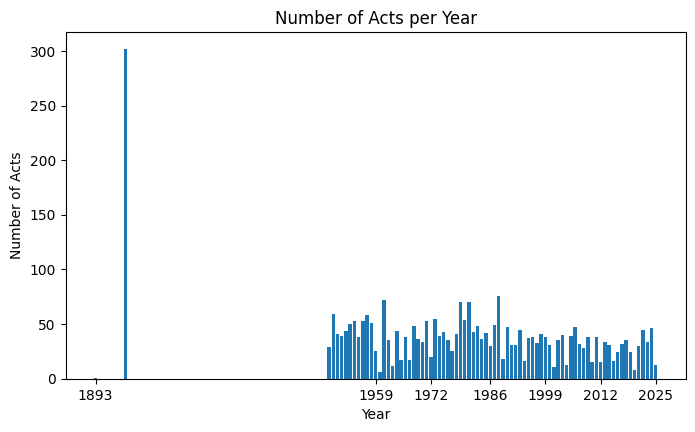
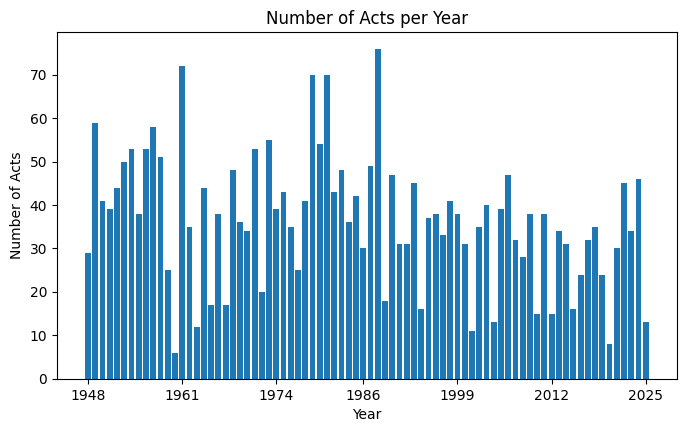
Ran build_readme

diff --git a/README.md b/README.md
@@ -1,10 +1,10 @@
 # 🇱🇰 Acts from the Sri Lankan Parliament ([lk_acts](https://github.com/nuuuwan/lk_acts))
 
-Scraped  **3,160** acts (1.11 MB) from [www.parliament.lk](https://www.parliament.lk/en) as of **2025-08-17 09:38:43**.
+Scraped  **2,857** acts (1.04 MB) from [www.parliament.lk](https://www.parliament.lk/en) as of **2025-08-17 09:41:54**.
 
 ![Year Chart](images/chart_year.png)
 
-## Acts (3,160)
+## Acts (2,857)
 
 ### 2025 (13)
 
@@ -3096,313 +3096,4 @@ Scraped  **3,160** acts (1.11 MB) from [www.parliament.lk](https://www.parliamen
 - ✏ `03/1948` [The Estate Duty (Amendment)](data/acts/1940s/1948/1948-003) (1948-01-28)
 - ✏ `02/1948` [Income Tax (Amendment)](data/acts/1940s/1948/1948-002) (1948-01-28)
 - 💰 `01/1948` [The Appropriation](data/acts/1940s/1948/1948-001) (1948-01-28)
-
-### 1900 (302)
-
-- 🏛 `Chap 25` [Youthful Offenders (Training Schools)](data/acts/1900s/1900/1900-youthful-offenders-(training-schools)) (1900-01-30)
-- 🏛 `Chap 139` [Workmen's Compensation](data/acts/1900s/1900/1900-workmen's-compensation) (1900-01-30)
-- 🏛 `Chap 60` [Wills](data/acts/1900s/1900/1900-wills) (1900-01-30)
-- 🏛 `Chap 431` [Widows' and Orphans' Pension Fund](data/acts/1900s/1900/1900-widows'-and-orphans'-pension-fund) (1900-01-30)
-- 🏛 `Chap 215` [Whaling](data/acts/1900s/1900/1900-whaling) (1900-01-30)
-- 🏛 `Chap 232` [Wells and Pits](data/acts/1900s/1900/1900-wells-and-pits) (1900-01-30)
-- 🏛 `Chap 158` [Weights and Measures](data/acts/1900s/1900/1900-weights-and-measures) (1900-01-30)
-- 🏛 `Chap 448` [Water Hyacinth](data/acts/1900s/1900/1900-water-hyacinth) (1900-01-30)
-- 🏛 `Chap 136` [Wages Boards](data/acts/1900s/1900/1900-wages-boards) (1900-01-30)
-- 🏛 `Chap 360` [Visiting Forces](data/acts/1900s/1900/1900-visiting-forces) (1900-01-30)
-- 🏛 `Chap 302` [Vidyalankara Sabha](data/acts/1900s/1900/1900-vidyalankara-sabha) (1900-01-30)
-- 🏛 `Chap 315` [Victoria Home for Incurables](data/acts/1900s/1900/1900-victoria-home-for-incurables) (1900-01-30)
-- 🏛 `Chap 224` [Venereal Diseases](data/acts/1900s/1900/1900-venereal-diseases) (1900-01-30)
-- 🏛 `Chap 202` [Vehicles](data/acts/1900s/1900/1900-vehicles) (1900-01-30)
-- 🏛 `Chap 121` [Validation of Registrars' Proceedings](data/acts/1900s/1900/1900-validation-of-registrars'-proceedings) (1900-01-30)
-- 🏛 `Chap 32` [Vagrants](data/acts/1900s/1900/1900-vagrants) (1900-01-30)
-- 🏛 `Chap 229` [Vaccination](data/acts/1900s/1900/1900-vaccination) (1900-01-30)
-- 🏛 `Chap 323` [Uva Young Men's Buddhist Association](data/acts/1900s/1900/1900-uva-young-men's-buddhist-association) (1900-01-30)
-- 🏛 `Chap 255` [Urban Councils](data/acts/1900s/1900/1900-urban-councils) (1900-01-30)
-- 🏛 `Chap 38` [Uniforms](data/acts/1900s/1900/1900-uniforms) (1900-01-30)
-- 🏛 `Chap 87` [Trusts](data/acts/1900s/1900/1900-trusts) (1900-01-30)
-- 🏛 `Chap 86` [Trust Receipts](data/acts/1900s/1900/1900-trust-receipts) (1900-01-30)
-- 🏛 `Chap 189` [Treasure Trove](data/acts/1900s/1900/1900-treasure-trove) (1900-01-30)
-- 🏛 `Chap 201` [Tramways](data/acts/1900s/1900/1900-tramways) (1900-01-30)
-- 🏛 `Chap 138` [Trade Unions](data/acts/1900s/1900/1900-trade-unions) (1900-01-30)
-- 🏛 `Chap 256` [Town Councils](data/acts/1900s/1900/1900-town-councils) (1900-01-30)
-- 🏛 `Chap 269` [Town and Country Planning](data/acts/1900s/1900/1900-town-and-country-planning) (1900-01-30)
-- 🏛 `Chap 197` [Tolls](data/acts/1900s/1900/1900-tolls) (1900-01-30)
-- 🏛 `Chap 245` [Tobacco Tax](data/acts/1900s/1900/1900-tobacco-tax) (1900-01-30)
-- 🏛 `Chap 193` [Thoroughfares](data/acts/1900s/1900/1900-thoroughfares) (1900-01-30)
-- 🏛 `Chap 63` [The "Tesawalamai"](data/acts/1900s/1900/1900-the-"tesawalamai") (1900-01-30)
-- 🏛 `Chap 155` [Telegram Copyright](data/acts/1900s/1900/1900-telegram-copyright) (1900-01-30)
-- 🏛 `Chap 192` [Telecommunications](data/acts/1900s/1900/1900-telecommunications) (1900-01-30)
-- 🏛 `Chap 35` [Tea Thefts](data/acts/1900s/1900/1900-tea-thefts) (1900-01-30)
-- 🏛 `Chap 435` [Tea Control](data/acts/1900s/1900/1900-tea-control) (1900-01-30)
-- 🏛 `Chap 108` [Surveyors](data/acts/1900s/1900/1900-surveyors) (1900-01-30)
-- 🏛 `Chap 13` [Supreme Court Vacations](data/acts/1900s/1900/1900-supreme-court-vacations) (1900-01-30)
-- 🏛 `Chap 233` [Suburban Dairies and Laundries](data/acts/1900s/1900/1900-suburban-dairies-and-laundries) (1900-01-30)
-- 🏛 `Chap 478` [Street Collections](data/acts/1900s/1900/1900-street-collections) (1900-01-30)
-- 🏛 `Chap 41` [Stay-in Strikes](data/acts/1900s/1900/1900-stay-in-strikes) (1900-01-30)
-- 🏛 `Chap 4` [Statutory Reprints](data/acts/1900s/1900/1900-statutory-reprints) (1900-01-30)
-- 🏛 `Chap 144` [Statistics](data/acts/1900s/1900/1900-statistics) (1900-01-30)
-- 🏛 `Chap 296` [St. Thomas' College](data/acts/1900s/1900/1900-st.-thomas'-college) (1900-01-30)
-- 🏛 `Chap 333` [St. Andrew's Church](data/acts/1900s/1900/1900-st.-andrew's-church) (1900-01-30)
-- 🏛 `Chap 325` [Sri Punyawardhana Samitiya of Matale](data/acts/1900s/1900/1900-sri-punyawardhana-samitiya-of-matale) (1900-01-30)
-- 🏛 `Chap 270` [Special Areas (Colombo) Development](data/acts/1900s/1900/1900-special-areas-(colombo)-development) (1900-01-30)
-- 🏛 `Chap 450` [Soil Conservation](data/acts/1900s/1900/1900-soil-conservation) (1900-01-30)
-- 🏛 `Chap 312` [Sinhala Welenda Mandalaya](data/acts/1900s/1900/1900-sinhala-welenda-mandalaya) (1900-01-30)
-- 🏛 `Chap 3` [Short Titles (Numeration)](data/acts/1900s/1900/1900-short-titles-(numeration)) (1900-01-30)
-- 🏛 `Chap 65` [Sex Disqualification Removal](data/acts/1900s/1900/1900-sex-disqualification-removal) (1900-01-30)
-- 🏛 `Chap 432` [School Teachers Pension](data/acts/1900s/1900/1900-school-teachers-pension) (1900-01-30)
-- 🏛 `Chap 340` [Salvation Army](data/acts/1900s/1900/1900-salvation-army) (1900-01-30)
-- 🏛 `Chap 211` [Salt](data/acts/1900s/1900/1900-salt) (1900-01-30)
-- 🏛 `Chap 84` [Sale of Goods](data/acts/1900s/1900/1900-sale-of-goods) (1900-01-30)
-- 🏛 `Chap 345` [Saiva Paripalana Sabhai](data/acts/1900s/1900/1900-saiva-paripalana-sabhai) (1900-01-30)
-- 🏛 `Chap 439` [Rubber Research](data/acts/1900s/1900/1900-rubber-research) (1900-01-30)
-- 🏛 `Chap 437` [Rubber Replanting (Subsidy)](data/acts/1900s/1900/1900-rubber-replanting-(subsidy)) (1900-01-30)
-- 🏛 `Chap 436` [Rubber Control](data/acts/1900s/1900/1900-rubber-control) (1900-01-30)
-- 🏛 `Chap 366` [Rome Convention](data/acts/1900s/1900/1900-rome-convention) (1900-01-30)
-- 🏛 `Chap 338` [Roman Catholic Archbishop](data/acts/1900s/1900/1900-roman-catholic-archbishop) (1900-01-30)
-- 🏛 `Chap 78` [Riot Damages](data/acts/1900s/1900/1900-riot-damages) (1900-01-30)
-- 🏛 `Chap 168` [Rice Reserves](data/acts/1900s/1900/1900-rice-reserves) (1900-01-30)
-- 🏛 `Chap 250` [Revenue Protection](data/acts/1900s/1900/1900-revenue-protection) (1900-01-30)
-- 🏛 `Chap 251` [Revenue Collection](data/acts/1900s/1900/1900-revenue-collection) (1900-01-30)
-- 🏛 `Chap 462` [Requisitioning of Land](data/acts/1900s/1900/1900-requisitioning-of-land) (1900-01-30)
-- 🏛 `Chap 119` [Registration of Old Deeds and Instruments](data/acts/1900s/1900/1900-registration-of-old-deeds-and-instruments) (1900-01-30)
-- 🏛 `Chap 477` [Registration of Dogs](data/acts/1900s/1900/1900-registration-of-dogs) (1900-01-30)
-- 🏛 `Chap 117` [Registration of Documents](data/acts/1900s/1900/1900-registration-of-documents) (1900-01-30)
-- 🏛 `Chap 111` [Registration of Deaths (Emergency)](data/acts/1900s/1900/1900-registration-of-deaths-(emergency)) (1900-01-30)
-- 🏛 `Chap 420` [Registered Stock and Securities](data/acts/1900s/1900/1900-registered-stock-and-securities) (1900-01-30)
-- 🏛 `Chap 266` [Rating and Valuation](data/acts/1900s/1900/1900-rating-and-valuation) (1900-01-30)
-- 🏛 `Chap 344` [Ramakrishna Mission](data/acts/1900s/1900/1900-ramakrishna-mission) (1900-01-30)
-- 🏛 `Chap 200` [Railways](data/acts/1900s/1900/1900-railways) (1900-01-30)
-- 🏛 `Chap 284` [Railway Uniform Staff Benevolent Fund](data/acts/1900s/1900/1900-railway-uniform-staff-benevolent-fund) (1900-01-30)
-- 🏛 `Chap 285` [Railway Benefit Association](data/acts/1900s/1900/1900-railway-benefit-association) (1900-01-30)
-- 🏛 `Chap 476` [Rabies](data/acts/1900s/1900/1900-rabies) (1900-01-30)
-- 🏛 `Chap 222` [Quarantine and Prevention of Diseases](data/acts/1900s/1900/1900-quarantine-and-prevention-of-diseases) (1900-01-30)
-- 🏛 `Chap 355` [Public and Judicial Officers (Retirement)](data/acts/1900s/1900/1900-public-and-judicial-officers-(retirement)) (1900-01-30)
-- 🏛 `Chap 24` [Probation of Offenders](data/acts/1900s/1900/1900-probation-of-offenders) (1900-01-30)
-- 🏛 `Chap 178` [Printing Presses](data/acts/1900s/1900/1900-printing-presses) (1900-01-30)
-- 🏛 `Chap 179` [Printers and Publishers](data/acts/1900s/1900/1900-printers-and-publishers) (1900-01-30)
-- 🏛 `Chap 70` [Prevention of Frauds](data/acts/1900s/1900/1900-prevention-of-frauds) (1900-01-30)
-- 🏛 `Chap 22` [Prevention of Crimes](data/acts/1900s/1900/1900-prevention-of-crimes) (1900-01-30)
-- 🏛 `Chap 68` [Prescription](data/acts/1900s/1900/1900-prescription) (1900-01-30)
-- 🏛 `Chap 332` [Presbyterian Church (Kandy)](data/acts/1900s/1900/1900-presbyterian-church-(kandy)) (1900-01-30)
-- 🏛 `Chap 122` [Powers of Attorney](data/acts/1900s/1900/1900-powers-of-attorney) (1900-01-30)
-- 🏛 `Chap 282` [Post Office Security Fund](data/acts/1900s/1900/1900-post-office-security-fund) (1900-01-30)
-- 🏛 `Chap 190` [Post Office](data/acts/1900s/1900/1900-post-office) (1900-01-30)
-- 🏛 `Chap 286` [Post and Telegraph Benefit Association](data/acts/1900s/1900/1900-post-and-telegraph-benefit-association) (1900-01-30)
-- 🏛 `Chap 141` [Poor Law](data/acts/1900s/1900/1900-poor-law) (1900-01-30)
-- 🏛 `Chap 53` [Police](data/acts/1900s/1900/1900-police) (1900-01-30)
-- 🏛 `Chap 218` [Poisons, Opium and Dangerous Drugs](data/acts/1900s/1900/1900-poisons,-opium-and-dangerous-drugs) (1900-01-30)
-- 🏛 `Chap 291` [Planters' Association](data/acts/1900s/1900/1900-planters'-association) (1900-01-30)
-- 🏛 `Chap 371` [Pilots](data/acts/1900s/1900/1900-pilots) (1900-01-30)
-- 🏛 `Chap 175` [Pilgrimages](data/acts/1900s/1900/1900-pilgrimages) (1900-01-30)
-- 🏛 `Chap 184` [Petroleum](data/acts/1900s/1900/1900-petroleum) (1900-01-30)
-- 🏛 `Chap 214` [Pearl  Fisheries](data/acts/1900s/1900/1900-pearl--fisheries) (1900-01-30)
-- 🏛 `Chap 142` [Orphanages](data/acts/1900s/1900/1900-orphanages) (1900-01-30)
-- 🏛 `Chap 37` [Old Metal](data/acts/1900s/1900/1900-old-metal) (1900-01-30)
-- 🏛 `Chap 39` [Official Secrets](data/acts/1900s/1900/1900-official-secrets) (1900-01-30)
-- 🏛 `Chap 30` [Obscene Publications](data/acts/1900s/1900/1900-obscene-publications) (1900-01-30)
-- 🏛 `Chap 17` [Oaths and Affirmations](data/acts/1900s/1900/1900-oaths-and-affirmations) (1900-01-30)
-- 🏛 `Chap 220` [Nursing Homes (Regulation)](data/acts/1900s/1900/1900-nursing-homes-(regulation)) (1900-01-30)
-- 🏛 `Chap 230` [Nuisances](data/acts/1900s/1900/1900-nuisances) (1900-01-30)
-- 🏛 `Chap 321` [Nugegoda Young Men's Buddhist Association](data/acts/1900s/1900/1900-nugegoda-young-men's-buddhist-association) (1900-01-30)
-- 🏛 `Chap 107` [Notaries](data/acts/1900s/1900/1900-notaries) (1900-01-30)
-- 🏛 `Chap 331` [Non-Episcopalian Churches](data/acts/1900s/1900/1900-non-episcopalian-churches) (1900-01-30)
-- 🏛 `Chap 180` [Newspapers](data/acts/1900s/1900/1900-newspapers) (1900-01-30)
-- 🏛 `Chap 358` [Navy](data/acts/1900s/1900/1900-navy) (1900-01-30)
-- 🏛 `Chap 43` [Naval and Victualling Stores](data/acts/1900s/1900/1900-naval-and-victualling-stores) (1900-01-30)
-- 🏛 `Chap 187` [National Museums](data/acts/1900s/1900/1900-national-museums) (1900-01-30)
-- 🏛 `Chap 401` [National Housing](data/acts/1900s/1900/1900-national-housing) (1900-01-30)
-- 🏛 `Chap 62` [Muslim Intestate Succession](data/acts/1900s/1900/1900-muslim-intestate-succession) (1900-01-30)
-- 🏛 `Chap 308` [Muslim Hospital Association](data/acts/1900s/1900/1900-muslim-hospital-association) (1900-01-30)
-- 🏛 `Chap 234` [Municipal Dairies and Laundries](data/acts/1900s/1900/1900-municipal-dairies-and-laundries) (1900-01-30)
-- 🏛 `Chap 252` [Municipal Councils](data/acts/1900s/1900/1900-municipal-councils) (1900-01-30)
-- 🏛 `Chap 203` [Motor Traffic](data/acts/1900s/1900/1900-motor-traffic) (1900-01-30)
-- 🏛 `Chap 204` [Motor Car (Conventions)](data/acts/1900s/1900/1900-motor-car-(conventions)) (1900-01-30)
-- 🏛 `Chap 89` [Mortgage](data/acts/1900s/1900/1900-mortgage) (1900-01-30)
-- 🏛 `Chap 314` [Moratuwa Social Service Society](data/acts/1900s/1900/1900-moratuwa-social-service-society) (1900-01-30)
-- 🏛 `Chap 309` [Moors' Islamic Cultural Home](data/acts/1900s/1900/1900-moors'-islamic-cultural-home) (1900-01-30)
-- 🏛 `Chap 80` [Money Lending](data/acts/1900s/1900/1900-money-lending) (1900-01-30)
-- 🏛 `Chap 422` [Monetary Law](data/acts/1900s/1900/1900-monetary-law) (1900-01-30)
-- 🏛 `Chap 281` [Milk Board](data/acts/1900s/1900/1900-milk-board) (1900-01-30)
-- 🏛 `Chap 336` [Methodist Trust Association](data/acts/1900s/1900/1900-methodist-trust-association) (1900-01-30)
-- 🏛 `Chap 227` [Mental Diseases](data/acts/1900s/1900/1900-mental-diseases) (1900-01-30)
-- 🏛 `Chap 226` [Medical Wants](data/acts/1900s/1900/1900-medical-wants) (1900-01-30)
-- 🏛 `Chap 105` [Medical Practioners, Pharmacists, Midwives and Nurses](data/acts/1900s/1900/1900-medical-practioners,-pharmacists,-midwives-and-nurses) (1900-01-30)
-- 🏛 `Chap 58` [Matrimonial Rights and Inheritance (Jaffna)](data/acts/1900s/1900/1900-matrimonial-rights-and-inheritance-(jaffna)) (1900-01-30)
-- 🏛 `Chap 57` [Matrimonial Rights and Inheritance](data/acts/1900s/1900/1900-matrimonial-rights-and-inheritance) (1900-01-30)
-- 🏛 `Chap 140` [Maternity Benefits](data/acts/1900s/1900/1900-maternity-benefits) (1900-01-30)
-- 🏛 `Chap 369` [Masters Attendant](data/acts/1900s/1900/1900-masters-attendant) (1900-01-30)
-- 🏛 `Chap 56` [Married Women's Property](data/acts/1900s/1900/1900-married-women's-property) (1900-01-30)
-- 🏛 `Chap 112` [Marriages (General)](data/acts/1900s/1900/1900-marriages-(general)) (1900-01-30)
-- 🏛 `Chap 115` [Marriage and Divorce (Muslim)](data/acts/1900s/1900/1900-marriage-and-divorce-(muslim)) (1900-01-30)
-- 🏛 `Chap 113` [Marriage and Divorce (Kandyan)](data/acts/1900s/1900/1900-marriage-and-divorce-(kandyan)) (1900-01-30)
-- 🏛 `Chap 347` [Maradana Mosque](data/acts/1900s/1900/1900-maradana-mosque) (1900-01-30)
-- 🏛 `Chap 91` [Maintenance](data/acts/1900s/1900/1900-maintenance) (1900-01-30)
-- 🏛 `Chap 303` [Mahamantinda Vidyarakshaka Sabha](data/acts/1900s/1900/1900-mahamantinda-vidyarakshaka-sabha) (1900-01-30)
-- 🏛 `Chap 45` [Lotteries](data/acts/1900s/1900/1900-lotteries) (1900-01-30)
-- 🏛 `Chap 76` [Lost Property](data/acts/1900s/1900/1900-lost-property) (1900-01-30)
-- 🏛 `Chap 417` [Local Treasury Bills](data/acts/1900s/1900/1900-local-treasury-bills) (1900-01-30)
-- 🏛 `Chap 265` [Local Government (Administrative Regions)](data/acts/1900s/1900/1900-local-government-(administrative-regions)) (1900-01-30)
-- 🏛 `Chap 262` [Local Authorities Elections](data/acts/1900s/1900/1900-local-authorities-elections) (1900-01-30)
-- 🏛 `Chap 261` [Local Authorities (Standard By-laws )](data/acts/1900s/1900/1900-local-authorities-(standard-by-laws-)) (1900-01-30)
-- 🏛 `Chap 263` [Local Authorities (Pensioners' Allowances)](data/acts/1900s/1900/1900-local-authorities-(pensioners'-allowances)) (1900-01-30)
-- 🏛 `Chap 400` [Loan Board](data/acts/1900s/1900/1900-loan-board) (1900-01-30)
-- 🏛 `Chap 42` [Lighting Control](data/acts/1900s/1900/1900-lighting-control) (1900-01-30)
-- 🏛 `Chap 228` [Lepers](data/acts/1900s/1900/1900-lepers) (1900-01-30)
-- 🏛 `Chap 199` [Launches](data/acts/1900s/1900/1900-launches) (1900-01-30)
-- 🏛 `Chap 311` [Lanka Mahila Samiti](data/acts/1900s/1900/1900-lanka-mahila-samiti) (1900-01-30)
-- 🏛 `Chap 455` [Lands Resumption](data/acts/1900s/1900/1900-lands-resumption) (1900-01-30)
-- 🏛 `Chap 458` [Land Surveys](data/acts/1900s/1900/1900-land-surveys) (1900-01-30)
-- 🏛 `Chap 463` [Land Settlement](data/acts/1900s/1900/1900-land-settlement) (1900-01-30)
-- 🏛 `Chap 120` [Land Registers (Reconstructed Folios)](data/acts/1900s/1900/1900-land-registers-(reconstructed-folios)) (1900-01-30)
-- 🏛 `Chap 464` [Land Development](data/acts/1900s/1900/1900-land-development) (1900-01-30)
-- 🏛 `Chap 313` [Lady Lochore Loan Fund](data/acts/1900s/1900/1900-lady-lochore-loan-fund) (1900-01-30)
-- 🏛 `Chap 51` [Labour Inspections (Maintenance of Secrecy)](data/acts/1900s/1900/1900-labour-inspections-(maintenance-of-secrecy)) (1900-01-30)
-- 🏛 `Chap 114` [Kandyan Succession](data/acts/1900s/1900/1900-kandyan-succession) (1900-01-30)
-- 🏛 `Chap 390` [Kandyan Convention](data/acts/1900s/1900/1900-kandyan-convention) (1900-01-30)
-- 🏛 `Chap 328` [Kandy Young Women's Christian Association](data/acts/1900s/1900/1900-kandy-young-women's-christian-association) (1900-01-30)
-- 🏛 `Chap 330` [Kandy Church](data/acts/1900s/1900/1900-kandy-church) (1900-01-30)
-- 🏛 `Chap 453` [Irrigation](data/acts/1900s/1900/1900-irrigation) (1900-01-30)
-- 🏛 `Chap 79` [Introduction of the Law of England](data/acts/1900s/1900/1900-introduction-of-the-law-of-england) (1900-01-30)
-- 🏛 `Chap 2` [Interpretation](data/acts/1900s/1900/1900-interpretation) (1900-01-30)
-- 🏛 `Chap 425` [International Finance Corporation Agreement](data/acts/1900s/1900/1900-international-finance-corporation-agreement) (1900-01-30)
-- 🏛 `Chap 29` [Intermeddlers with Suitors](data/acts/1900s/1900/1900-intermeddlers-with-suitors) (1900-01-30)
-- 🏛 `Chap 97` [Insolvents](data/acts/1900s/1900/1900-insolvents) (1900-01-30)
-- 🏛 `Chap 28` [Informers Rewards](data/acts/1900s/1900/1900-informers-rewards) (1900-01-30)
-- 🏛 `Chap 166` [Industrial Products](data/acts/1900s/1900/1900-industrial-products) (1900-01-30)
-- 🏛 `Chap 131` [Industrial Disputes](data/acts/1900s/1900/1900-industrial-disputes) (1900-01-30)
-- 🏛 `Chap 132` [Indian Immigrant Labour](data/acts/1900s/1900/1900-indian-immigrant-labour) (1900-01-30)
-- 🏛 `Chap 351` [Immigrants and Emigrants](data/acts/1900s/1900/1900-immigrants-and-emigrants) (1900-01-30)
-- 🏛 `Chap 268` [Housing and Town Improvement](data/acts/1900s/1900/1900-housing-and-town-improvement) (1900-01-30)
-- 🏛 `Chap 33` [Houses of Detention](data/acts/1900s/1900/1900-houses-of-detention) (1900-01-30)
-- 🏛 `Chap 74` [Hotel Keepers Liability](data/acts/1900s/1900/1900-hotel-keepers-liability) (1900-01-30)
-- 🏛 `Chap 36` [Hotel Keepers](data/acts/1900s/1900/1900-hotel-keepers) (1900-01-30)
-- 🏛 `Chap 177` [Holidays](data/acts/1900s/1900/1900-holidays) (1900-01-30)
-- 🏛 `Chap 343` [Hindu Board of Education](data/acts/1900s/1900/1900-hindu-board-of-education) (1900-01-30)
-- 🏛 `Chap 219` [Health Services](data/acts/1900s/1900/1900-health-services) (1900-01-30)
-- 🏛 `Chap 288` [Government Surveyors' Association](data/acts/1900s/1900/1900-government-surveyors'-association) (1900-01-30)
-- 🏛 `Chap 353` [Government Indemnity Bonds](data/acts/1900s/1900/1900-government-indemnity-bonds) (1900-01-30)
-- 🏛 `Chap 5` [Government Gazette (Publication)](data/acts/1900s/1900/1900-government-gazette-(publication)) (1900-01-30)
-- 🏛 `Chap 146` [Government - Sponsored Corporations](data/acts/1900s/1900/1900-government---sponsored-corporations) (1900-01-30)
-- 🏛 `Chap 207` [Gas Meters](data/acts/1900s/1900/1900-gas-meters) (1900-01-30)
-- 🏛 `Chap 206` [Gas](data/acts/1900s/1900/1900-gas) (1900-01-30)
-- 🏛 `Chap 46` [Gaming](data/acts/1900s/1900/1900-gaming) (1900-01-30)
-- 🏛 `Chap 322` [Galle Young Men's Buddhist Association](data/acts/1900s/1900/1900-galle-young-men's-buddhist-association) (1900-01-30)
-- 🏛 `Chap 451` [Forests](data/acts/1900s/1900/1900-forests) (1900-01-30)
-- 🏛 `Chap 239` [Foreign -going Aircraft (Exemption from Customs Duty)](data/acts/1900s/1900/1900-foreign--going-aircraft-(exemption-from-customs-duty)) (1900-01-30)
-- 🏛 `Chap 481` [Food Supplies](data/acts/1900s/1900/1900-food-supplies) (1900-01-30)
-- 🏛 `Chap 443` [Food Production (Estates)](data/acts/1900s/1900/1900-food-production-(estates)) (1900-01-30)
-- 🏛 `Chap 171` [Food Control](data/acts/1900s/1900/1900-food-control) (1900-01-30)
-- 🏛 `Chap 449` [Flood Protection](data/acts/1900s/1900/1900-flood-protection) (1900-01-30)
-- 🏛 `Chap 212` [Fisheries](data/acts/1900s/1900/1900-fisheries) (1900-01-30)
-- 🏛 `Chap 363` [Firing Ranges and Military Training](data/acts/1900s/1900/1900-firing-ranges-and-military-training) (1900-01-30)
-- 🏛 `Chap 182` [Firearms](data/acts/1900s/1900/1900-firearms) (1900-01-30)
-- 🏛 `Chap 414` [Financial Reserves](data/acts/1900s/1900/1900-financial-reserves) (1900-01-30)
-- 🏛 `Chap 452` [Felling of Trees (Control)](data/acts/1900s/1900/1900-felling-of-trees-(control)) (1900-01-30)
-- 🏛 `Chap 469` [Fauna and Flora Protection](data/acts/1900s/1900/1900-fauna-and-flora-protection) (1900-01-30)
-- 🏛 `Chap 128` [Factories](data/acts/1900s/1900/1900-factories) (1900-01-30)
-- 🏛 `Chap 47` [Extradition](data/acts/1900s/1900/1900-extradition) (1900-01-30)
-- 🏛 `Chap 183` [Explosives](data/acts/1900s/1900/1900-explosives) (1900-01-30)
-- 🏛 `Chap 52` [Excise](data/acts/1900s/1900/1900-excise) (1900-01-30)
-- 🏛 `Chap 423` [Exchange Control](data/acts/1900s/1900/1900-exchange-control) (1900-01-30)
-- 🏛 `Chap 14` [Evidence](data/acts/1900s/1900/1900-evidence) (1900-01-30)
-- 🏛 `Chap 293` [Estate Staffs' Association](data/acts/1900s/1900/1900-estate-staffs'-association) (1900-01-30)
-- 🏛 `Chap 195` [Estate Roads](data/acts/1900s/1900/1900-estate-roads) (1900-01-30)
-- 🏛 `Chap 133` [Estate Labour (Indian)](data/acts/1900s/1900/1900-estate-labour-(indian)) (1900-01-30)
-- 🏛 `Chap 241` [Estate Duty](data/acts/1900s/1900/1900-estate-duty) (1900-01-30)
-- 🏛 `Chap 335` [Episcopal Churches](data/acts/1900s/1900/1900-episcopal-churches) (1900-01-30)
-- 🏛 `Chap 267` [Entertainment Tax](data/acts/1900s/1900/1900-entertainment-tax) (1900-01-30)
-- 🏛 `Chap 130` [Employment of Females in Mines](data/acts/1900s/1900/1900-employment-of-females-in-mines) (1900-01-30)
-- 🏛 `Chap 471` [Elephant Kraals](data/acts/1900s/1900/1900-elephant-kraals) (1900-01-30)
-- 🏛 `Chap 205` [Electricity](data/acts/1900s/1900/1900-electricity) (1900-01-30)
-- 🏛 `Chap 185` [Education](data/acts/1900s/1900/1900-education) (1900-01-30)
-- 🏛 `Chap 329` [Dutch Reformed Church](data/acts/1900s/1900/1900-dutch-reformed-church) (1900-01-30)
-- 🏛 `Chap 480` [Dried Meat](data/acts/1900s/1900/1900-dried-meat) (1900-01-30)
-- 🏛 `Chap 137` [Domestic Servants](data/acts/1900s/1900/1900-domestic-servants) (1900-01-30)
-- 🏛 `Chap 225` [Diseases Among Labourers](data/acts/1900s/1900/1900-diseases-among-labourers) (1900-01-30)
-- 🏛 `Chap 294` [Disabled Ceylon Men's Fund](data/acts/1900s/1900/1900-disabled-ceylon-men's-fund) (1900-01-30)
-- 🏛 `Chap 165` [Development Finance Corporation](data/acts/1900s/1900/1900-development-finance-corporation) (1900-01-30)
-- 🏛 `Chap 441` [Department of Agriculture](data/acts/1900s/1900/1900-department-of-agriculture) (1900-01-30)
-- 🏛 `Chap 457` [Definition of Boundaries](data/acts/1900s/1900/1900-definition-of-boundaries) (1900-01-30)
-- 🏛 `Chap 259` [Defence Stations](data/acts/1900s/1900/1900-defence-stations) (1900-01-30)
-- 🏛 `Chap 391` [Declaration of British Sovereignty](data/acts/1900s/1900/1900-declaration-of-british-sovereignty) (1900-01-30)
-- 🏛 `Chap 81` [Debt Conciliation](data/acts/1900s/1900/1900-debt-conciliation) (1900-01-30)
-- 🏛 `Chap 27` [Dangerous Knives](data/acts/1900s/1900/1900-dangerous-knives) (1900-01-30)
-- 🏛 `Chap 49` [Dangerous Animals](data/acts/1900s/1900/1900-dangerous-animals) (1900-01-30)
-- 🏛 `Chap 235` [Customs](data/acts/1900s/1900/1900-customs) (1900-01-30)
-- 🏛 `Chap 276` [Council of Legal Education](data/acts/1900s/1900/1900-council-of-legal-education) (1900-01-30)
-- 🏛 `Chap 21` [Corporal Punishments](data/acts/1900s/1900/1900-corporal-punishments) (1900-01-30)
-- 🏛 `Chap 221` [Corneal Grafting](data/acts/1900s/1900/1900-corneal-grafting) (1900-01-30)
-- 🏛 `Chap 196` [Conversion of Estate Roads into Public Roads](data/acts/1900s/1900/1900-conversion-of-estate-roads-into-public-roads) (1900-01-30)
-- 🏛 `Chap 173` [Control of Prices](data/acts/1900s/1900/1900-control-of-prices) (1900-01-30)
-- 🏛 `Chap 415` [Contingencies Fund](data/acts/1900s/1900/1900-contingencies-fund) (1900-01-30)
-- 🏛 `Chap 223` [Contagious Diseases](data/acts/1900s/1900/1900-contagious-diseases) (1900-01-30)
-- 🏛 `Chap 316` [Comrades of the Great War](data/acts/1900s/1900/1900-comrades-of-the-great-war) (1900-01-30)
-- 🏛 `Chap 246` [Compulsory Food Production (Tax Relief)](data/acts/1900s/1900/1900-compulsory-food-production-(tax-relief)) (1900-01-30)
-- 🏛 `Chap 147` [Companies (Donations)](data/acts/1900s/1900/1900-companies-(donations)) (1900-01-30)
-- 🏛 `Chap 145` [Companies](data/acts/1900s/1900/1900-companies) (1900-01-30)
-- 🏛 `Chap 393` [Commissions of Inquiry](data/acts/1900s/1900/1900-commissions-of-inquiry) (1900-01-30)
-- 🏛 `Chap 327` [Colombo Young Women's Christian Association](data/acts/1900s/1900/1900-colombo-young-women's-christian-association) (1900-01-30)
-- 🏛 `Chap 326` [Colombo Young Men's Christian Association](data/acts/1900s/1900/1900-colombo-young-men's-christian-association) (1900-01-30)
-- 🏛 `Chap 320` [Colombo Young Men's Buddhist Association](data/acts/1900s/1900/1900-colombo-young-men's-buddhist-association) (1900-01-30)
-- 🏛 `Chap 440` [Coconut Research](data/acts/1900s/1900/1900-coconut-research) (1900-01-30)
-- 🏛 `Chap 160` [Coconut Products](data/acts/1900s/1900/1900-coconut-products) (1900-01-30)
-- 🏛 `Chap 126` [Co-operative Wholesale Establishment](data/acts/1900s/1900/1900-co-operative-wholesale-establishment) (1900-01-30)
-- 🏛 `Chap 124` [Co-operative Societies](data/acts/1900s/1900/1900-co-operative-societies) (1900-01-30)
-- 🏛 `Chap 101` [Civil Procedure Code](data/acts/1900s/1900/1900-civil-procedure-code) (1900-01-30)
-- 🏛 `Chap 349` [Citizenship](data/acts/1900s/1900/1900-citizenship) (1900-01-30)
-- 🏛 `Chap 334` [Church of England](data/acts/1900s/1900/1900-church-of-england) (1900-01-30)
-- 🏛 `Chap 23` [Children and Young Persons](data/acts/1900s/1900/1900-children-and-young-persons) (1900-01-30)
-- 🏛 `Chap 159` [Cheetus](data/acts/1900s/1900/1900-cheetus) (1900-01-30)
-- 🏛 `Chap 73` [Chauffeurs](data/acts/1900s/1900/1900-chauffeurs) (1900-01-30)
-- 🏛 `Chap 213` [Chank Fisheries](data/acts/1900s/1900/1900-chank-fisheries) (1900-01-30)
-- 🏛 `Chap 289` [Chamber of Commerce](data/acts/1900s/1900/1900-chamber-of-commerce) (1900-01-30)
-- 🏛 `Chap 301` [Ceylonese Brothers of St. Joseph](data/acts/1900s/1900/1900-ceylonese-brothers-of-st.-joseph) (1900-01-30)
-- 🏛 `Chap 287` [Ceylon Police Saving Association](data/acts/1900s/1900/1900-ceylon-police-saving-association) (1900-01-30)
-- 🏛 `Chap 307` [Ceylon Muslim Scholarship Fund](data/acts/1900s/1900/1900-ceylon-muslim-scholarship-fund) (1900-01-30)
-- 🏛 `Chap 164` [Ceylon Institute of Scientific and Industrial Research](data/acts/1900s/1900/1900-ceylon-institute-of-scientific-and-industrial-research) (1900-01-30)
-- 🏛 `Chap 341` [Ceylon Baptist Council](data/acts/1900s/1900/1900-ceylon-baptist-council) (1900-01-30)
-- 🏛 `Chap 143` [Census](data/acts/1900s/1900/1900-census) (1900-01-30)
-- 🏛 `Chap 231` [Cemeteries and Burial Grounds](data/acts/1900s/1900/1900-cemeteries-and-burial-grounds) (1900-01-30)
-- 🏛 `Chap 85` [Carriage of Goods by Sea](data/acts/1900s/1900/1900-carriage-of-goods-by-sea) (1900-01-30)
-- 🏛 `Chap 149` [Business Names](data/acts/1900s/1900/1900-business-names) (1900-01-30)
-- 🏛 `Chap 318` [Buddhist Temporalities](data/acts/1900s/1900/1900-buddhist-temporalities) (1900-01-30)
-- 🏛 `Chap 31` [Brothels](data/acts/1900s/1900/1900-brothels) (1900-01-30)
-- 🏛 `Chap 26` [Bribery](data/acts/1900s/1900/1900-bribery) (1900-01-30)
-- 🏛 `Chap 424` [Bretton Woods Agreements](data/acts/1900s/1900/1900-bretton-woods-agreements) (1900-01-30)
-- 🏛 `Chap 217` [Bread](data/acts/1900s/1900/1900-bread) (1900-01-30)
-- 🏛 `Chap 446` [Botanic Gardens](data/acts/1900s/1900/1900-botanic-gardens) (1900-01-30)
-- 🏛 `Chap 198` [Boats](data/acts/1900s/1900/1900-boats) (1900-01-30)
-- 🏛 `Chap 370` [Boatmen](data/acts/1900s/1900/1900-boatmen) (1900-01-30)
-- 🏛 `Chap 110` [Births and Deaths](data/acts/1900s/1900/1900-births-and-deaths) (1900-01-30)
-- 🏛 `Chap 82` [Bills of Exchange](data/acts/1900s/1900/1900-bills-of-exchange) (1900-01-30)
-- 🏛 `Chap 44` [Betting on Horse-Racing](data/acts/1900s/1900/1900-betting-on-horse-racing) (1900-01-30)
-- 🏛 `Chap 209` [Batticaloa Waterworks](data/acts/1900s/1900/1900-batticaloa-waterworks) (1900-01-30)
-- 🏛 `Chap 397` [Bank of Ceylon](data/acts/1900s/1900/1900-bank-of-ceylon) (1900-01-30)
-- 🏛 `Chap 346` [Badulla Saiva Paripalana Sangam](data/acts/1900s/1900/1900-badulla-saiva-paripalana-sangam) (1900-01-30)
-- 🏛 `Chap 348` [Baadhi Beeya Association](data/acts/1900s/1900/1900-baadhi-beeya-association) (1900-01-30)
-- 🏛 `Chap 109` [Auctioneers and Brokers](data/acts/1900s/1900/1900-auctioneers-and-brokers) (1900-01-30)
-- 🏛 `Chap 342` [Assemblies of God of Ceylon](data/acts/1900s/1900/1900-assemblies-of-god-of-ceylon) (1900-01-30)
-- 🏛 `Chap 278` [Arts Council of Ceylon](data/acts/1900s/1900/1900-arts-council-of-ceylon) (1900-01-30)
-- 🏛 `Chap 357` [Army](data/acts/1900s/1900/1900-army) (1900-01-30)
-- 🏛 `Chap 98` [Arbitration](data/acts/1900s/1900/1900-arbitration) (1900-01-30)
-- 🏛 `Chap 324` [Anuradhapura Buddhist Association](data/acts/1900s/1900/1900-anuradhapura-buddhist-association) (1900-01-30)
-- 🏛 `Chap 188` [Antiquities](data/acts/1900s/1900/1900-antiquities) (1900-01-30)
-- 🏛 `Chap 337` [American Mission](data/acts/1900s/1900/1900-american-mission) (1900-01-30)
-- 🏛 `Chap 319` [All Ceylon Buddhist Congress](data/acts/1900s/1900/1900-all-ceylon-buddhist-congress) (1900-01-30)
-- 🏛 `Chap 365` [Air Navigation](data/acts/1900s/1900/1900-air-navigation) (1900-01-30)
-- 🏛 `Chap 359` [Air Force](data/acts/1900s/1900/1900-air-force) (1900-01-30)
-- 🏛 `Chap 161` [Agricultural Products (Regulation)](data/acts/1900s/1900/1900-agricultural-products-(regulation)) (1900-01-30)
-- 🏛 `Chap 163` [Agricultural Produce Agents (Registration)](data/acts/1900s/1900/1900-agricultural-produce-agents-(registration)) (1900-01-30)
-- 🏛 `Chap 162` [Agricultural Produce (Grading and Marking)](data/acts/1900s/1900/1900-agricultural-produce-(grading-and-marking)) (1900-01-30)
-- 🏛 `Chap 442` [Agricultural Crops](data/acts/1900s/1900/1900-agricultural-crops) (1900-01-30)
-- 🏛 `Chap 66` [Age of Majority](data/acts/1900s/1900/1900-age-of-majority) (1900-01-30)
-- 🏛 `Chap 18` [Affidavits](data/acts/1900s/1900/1900-affidavits) (1900-01-30)
-- 🏛 `Chap 392` [Administrative Districts](data/acts/1900s/1900/1900-administrative-districts) (1900-01-30)
-- 🏛 `Chap 134` ["Tundus"](data/acts/1900s/1900/1900-"tundus") (1900-01-30)
-- 🏛 `Chap 64` ["Thesawalamai" Pre-emption](data/acts/1900s/1900/1900-"thesawalamai"-pre-emption) (1900-01-30)
-- 🏛 `Chap 118` ["Sannases " and Old Deeds](data/acts/1900s/1900/1900-"sannases-"-and-old-deeds) (1900-01-30)
-
-### 1893 (1)
-
-- 🏛 `Chap 272/9` [Butchers](data/acts/1890s/1893/1893-butchers) (1893-01-30)
 
